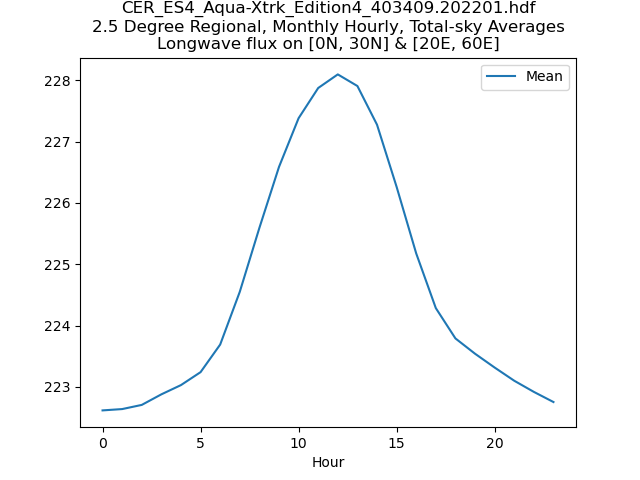
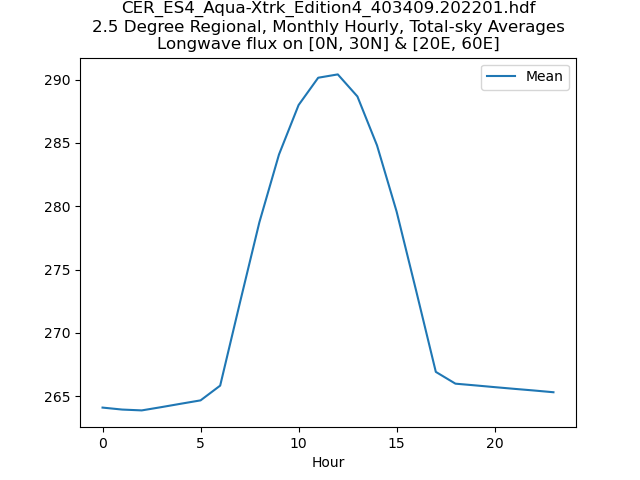
fix: subset region in hourly (#1)

diff --git a/MORE/LaRC/CERES/CER_ES4_Aqua-Xtrk_Edition4_403409.202201.hdf.h.py b/MORE/LaRC/CERES/CER_ES4_Aqua-Xtrk_Edition4_403409.202201.hdf.h.py
@@ -16,7 +16,7 @@ Usage:  save this script and run
 The HDF file must be in your current working directory.
 
 Tested under: Python 3.9.13 :: Miniconda
-Last updated: 2023-07-11
+Last updated: 2023-07-12
 """
 
 import os
@@ -116,7 +116,7 @@ if flag:
 _l = []
 for i in range(0, datam.shape[0]):
     datas = datam[i, :, :]
-    m = np.mean(datas)
+    m = np.mean(datas[s])
     _l.append([i, m])
 
 df = pd.DataFrame(_l, columns=["Hour", "Mean"])
